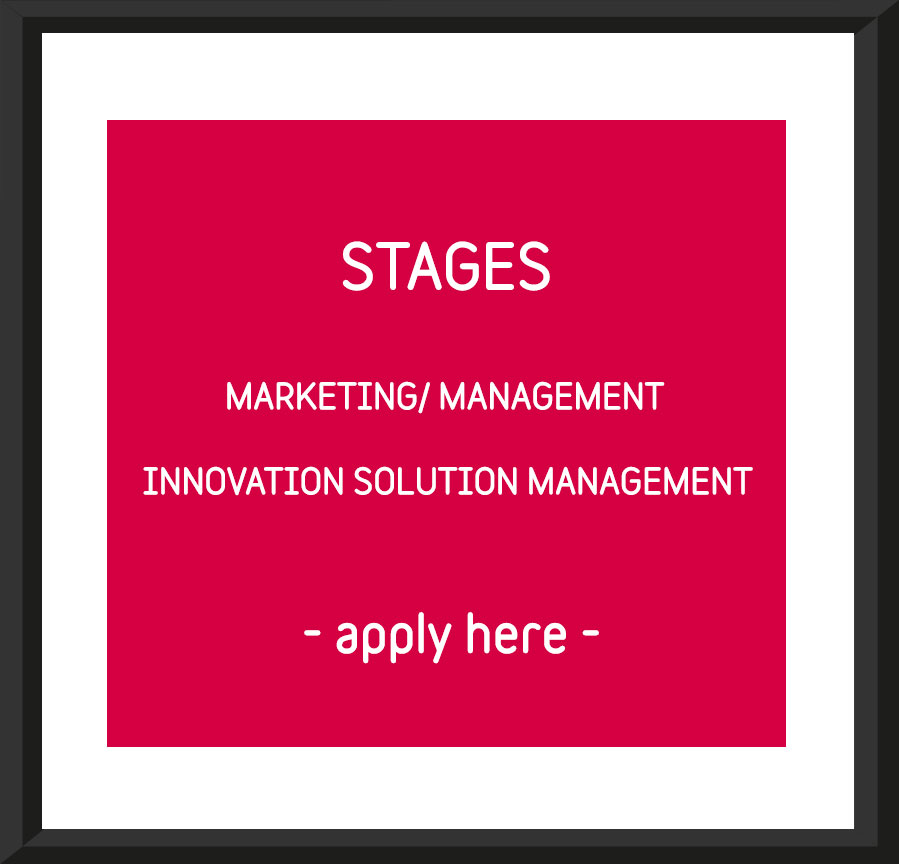
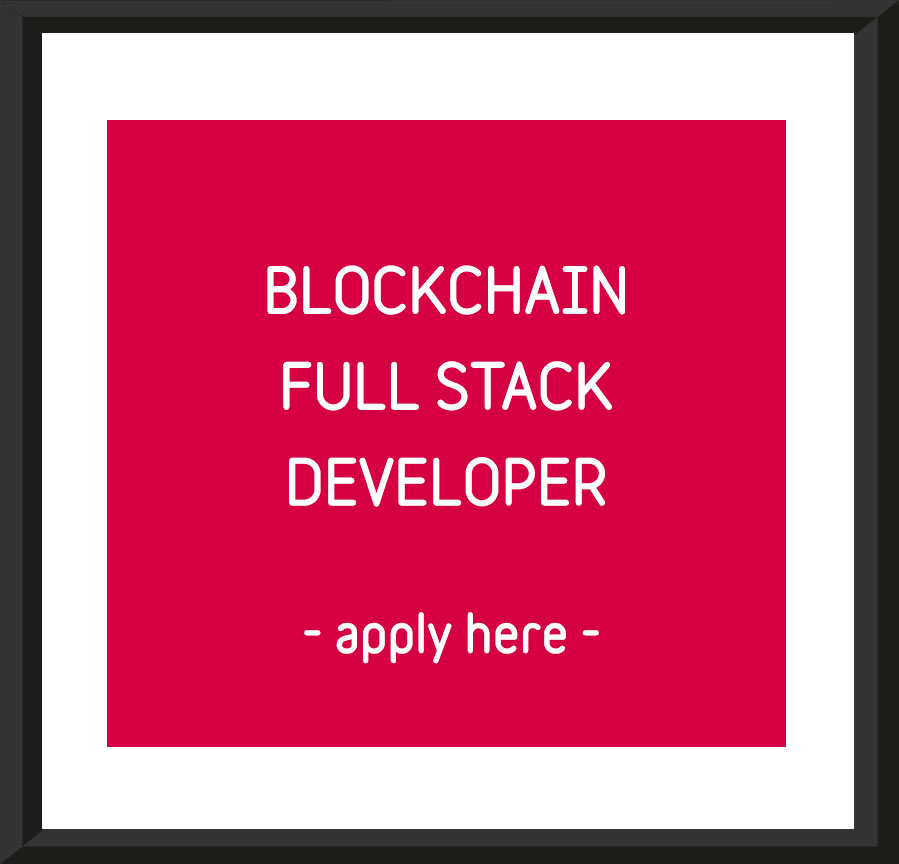
Update new positions in career page - new img and new code

Changed region(s): [[0.1557, 0.5312, 0.8409, 0.5938], [0.2803, 0.2812, 0.7164, 0.375], [0.2492, 0.4062, 0.7475, 0.5]]

diff --git a/career.html b/career.html
@@ -149,7 +149,7 @@
  <p v-html="content.jobs.job2.apply_text[language]"></p>
 
 <div class="divider"></div>
-  <!-- JOB3 -->
+  <!-- JOB3 
 <h1>{{ content.jobs.job3.position[language] }}</h1>
  <h2>{{ content.jobs.job3.description_title[language] }}</h2>
  <p>{{ content.jobs.job3.description_text[language] }}</p>
@@ -173,7 +173,7 @@
  </ul>
  <h2>{{ content.jobs.job3.apply_title[language] }}</h2>
  <p v-html="content.jobs.job3.apply_text[language]"></p>
-
+-->
  </div>
  </div>
 
@@ -472,69 +472,61 @@
  },
  job2: {
  position: {
- en: 'Internship',
-  fr: 'Stages',
-   nl: 'Stage'
+ en: 'BLOCKCHAIN FULL STACK DEVELOPER',
+  fr: 'BLOCKCHAIN FULL STACK DEVELOPER',
+   nl: 'BLOCKCHAIN FULL STACK DEVELOPER'
  },
   description_title: {
- en: 'INNOVATION SOLUTIONS MANAGEMENT',
- fr: 'INNOVATION SOLUTIONS MANAGEMENT',
- nl: 'INNOVATION SOLUTIONS MANAGEMENT'
+ en: '',
+ fr: '',
+ nl: ''
  },
  description_text: {
- en: 'Since November 2016, Belfius has established "The Studio", with the main aim to diversify the bank s income by developing solutions based on new technologies and bringing them to market as quickly as possible. These solutions can come from innovative ideas developped  in the Studio or from existing assets within Belfius. The Innovation Lab is an entity of "The Studio" and its main aim is to stimulate and facilitate innovation by structuring ideas through an Innovation Funnel. It has been set up to select and challenge new ideas and new technologies to determine which ones need to be developed first. To achieve this, methods such as design thinking and fast prototyping are used. Finally, the Innovation Lab also likes to conduct experiments, conduct research, analyzes the market and meets many players in the sector of new technologies. The Studio and the Innovation Lab focus on different domains and technologies such as Internet of Things, mobile, cognitive learning, big data and blockchain.',
- fr: 'Depuis novembre 2016 Belfius a créé « The Studio » dont l’ objectif principal est de diversifier les revenus de la banque en développant des solutions basées sur les nouvelles technologies et en les commercialisant au plus vite. Ces solutions peuvent venir d’idées innovantes développées au sein du Studio ou encore d’assets existants au sein de Belfius. L’Innovation Lab est une entité du Studio qui a comme objectif principal de stimuler et faciliter l’innovation en structurant les idées via un Innovation Funnel.  Celui-ci est mis en place afin de sélectionner et challenger les nouvelles idées et les nouvelles technologies afin de déterminer lesquelles doivent être développées en priorité. Pour réaliser cela, des méthodes de design thinking et fast prototyping sont utilisées. Enfin, l’Innovation Lab aime aussi mener des expériences, faire des recherches, analyser le marché et rencontrer de nombreux acteurs du secteur des nouvelles technologies. Le Studio et l’Innovation Lab se focalisent sur les différents domaines et technologies comme Internet of Things, mobile, cognitive learning, big data et blockchain.',
- nl: 'Sinds november 2016 heeft Belfius "The Studio" opgericht, met als hoofddoel de inkomsten van de bank te diversifiëren door op basis van nieuwe technologieën oplossingen te ontwikkelen en deze zo snel mogelijk op de markt te brengen. Deze oplossingen kunnen komen van innovatieve ideeën die in de Studio zijn ontwikkeld of van bestaande activa binnen Belfius. Het Innovation Lab is een entiteit van “The Studio” en heeft als hoofddoel innovatie te stimuleren en te faciliteren door ideeën te structureren via een Innovation Funnel. Het is opgezet om nieuwe ideeën en nieuwe technologieën te selecteren en uit te dagen om vervolgens te bepalen welke eerst moeten worden ontwikkeld. Om dit te bereiken, worden methodes als design thinking en fast prototyping gebruikt. Ten slotte voert het Innovation Lab ook graag experimenten, doet onderzoek, analyseert de markt en ontmoet veel spelers in de sector van nieuwe technologieën. The Studio en het Innovation Lab richten zich op verschillende domeinen en technologieën zoals Internet of Things, mobiel, cognitief leren, big data en blockchain.'
+ en: 'Our blockchain competence center within The Studio, develops the solutions of tomorrow offered by  this new, highly promising technology. The role of the Studio with regards to blockchain is twofold: firstly, we support and develop blockchain used-cases together with Belfius bank. Secondly, we propose our blockchain assets to other companies as well as public institutions.At The Studio, we believe in recruiting IT profiles with a strong sense of  business acumen. We are currently looking for a Blockchain full stack developer to join our team! The successful candidate will be involved from the start of the project (business analysis, design thinking workshop, etc.) until the real development and implementation phase.',
+ fr: 'Notre centre de compétences blockchain au sein du Studio, développe les solutions de demain offertes par cette nouvelle technologie très prometteuse. Le rôle du Studio en matière de blockchain est double: d une part, nous soutenons et développons des cas d utilisation de blockchain avec Belfius bank. Deuxièmement, nous proposons nos actifs de blockchain à d autres entreprises ainsi qu à des institutions publiques.Chez The Studio, nous croyons au recrutement de profils informatiques avec un sens aigu des affaires. Nous sommes actuellement à la recherche d un développeur Blockchain full stack pour rejoindre notre équipe! Le candidat retenu sera impliqué dès le début du projet (analyse d affaires, atelier de réflexion sur la conception, etc.) jusqu à la phase réelle de développement et de mise en œuvre.',
+ nl: 'Ons blockchain-competentiecentrum in The Studio ontwikkelt de oplossingen van morgen die worden aangeboden door deze nieuwe, veelbelovende technologie. De rol van de Studio met betrekking tot blockchain is tweevoudig: In de eerste plaats ondersteunen en ontwikkelen we blockchain used-cases samen met Belfius bank. In de twee plaats,  stellen we onze blockchainactiva voor aan andere bedrijven en ook aan openbare instellingen.Bij The Studio geloven we in het aanwerven van IT-profielen met een sterke affiniteit voor business. We zijn momenteel op zoek naar een Blockchain full stack developer  om ons team te versterken! De succesvolle kandidaat zal vanaf het begin van het project (bedrijfsanalyse, ontwerp denkworkshop, enz.) betrokken zijn tot de echte ontwikkelings- en implementatiefase.'
  },
  responsibilities_title: {
- en: 'Tâches et responsabilités',
+ en: 'Tasks and responsibilities',
   fr: 'Tâches et responsabilités',
    nl: 'Taken en verantwoordelijkheden'
 
  },
  responsibilities_intro: {
- en: 'The Innovation Lab is a multidisciplinary team in which each member of the team contributes his specific skills, but at the same time the team is committed to ensuring multidisciplinarity. The Trainee Innovation Solutions Management will concentrate on the following tasks:',
- fr: 'L’Innovation Lab est une équipe multidisciplinaire dans laquelle chaque membre de l’équipe apporte ses skills spécifiques mais ou, en même temps, l’équipe est au centre des préoccupations et fait en sorte que la multidisciplinarité est assurée. Le/la stagiaire Innovation Solutions Management se focalisera sur les tâches suivantes:',
- nl: 'Het Innovation Lab is een multidisciplinair team waarin elk lid van het team zijn specifieke vaardigheden inbrengt, maar tegelijkertijd staat het team in om de multidisciplinariteit te waarborgen. De stagiair(e) Innovation Solutions Management zal zich concentreren op de volgende taken:'
+ en: '',
+ fr: '',
+ nl: ''
  },
  responsibilities_list: {
  en: [
-'Develop and implement the innovation funnel.',
-'Detect new opportunities for the company.',
-'Conducting experiments and testing ideas individually or in teams',
-'Maintenance and construction of external and internal contacts (Beflius, other startups, possible partners, etc.).',
-'Building prototypes in collaboration with the developer (s).',
-'Organizing and facilitating brainstorming sessions, workshops and design thinking sessions to grow and develop new ideas.',
-'Making presentations and explaining new technologies.',
-'Use your personal network and knowledge to connect ideas and people.',
-'Identifying and stimulating unusual ideas that may have a significant impact.',
-'Follow-up of the ideas, products (pengo), companies (BrightKnight) that have already been commercialized by The Studio.'
+'Develop blockchain software in an agile way of working: PoC – Prototype – Production.',
+'Work closely together with developers of our partner, a worldwide leading blockchain firm.',
+'Work with different technologies (mainly Hyperledger, Corda, Ethereum and Digital Asset holding.)',
+'Brainstorm about new use-cases',
+'Explore technological challenges',
+'Think together with our blockchain architect about safe and sustainable solutions.',
+'Test your code. Push it to production. Enjoy.'
+
  ],
   fr: [
-' Mettre en place et développer l’innovation funnel. ',
-'Organiser, prioriser et définir les solutions à développer.',
-'Créer de nouvelles opportunités pour l’entreprise .',
-'Mener des expériences et tester des idées de façon individuelle ou en équipe. ',
-'Maintenir et  développer des contacts externes et internes (Beflius, autres startups, partenaires possibles,….). ',
-'Bâtir des prototypes en coopération avec le(s) développeur(s).',
-'Organiser et faciliter des brainstormings, des workshops et des sessions design thinking pour faire murir et développer des nouvelles idées.',
-'Réaliser des présentations et explications sur les nouvelles technologies. ',
-'Utiliser son réseau personnel et ses connaissances pour lier des idées et des personnes d’horizon différents.',
-'Identifier et stimuler des idées inhabituelles qui ont potentiellement un impact important.',
-'Continuer à suivre les idées, produits (pengo), sociétés (BrightKnight)  déjà commercilalisé par The Studio afin de soutenir la commercialisation. '
+'Développer un logiciel blockchain de manière agile: PoC Prototype Production.',
+'Travailler en étroite collaboration avec les développeurs de notre partenaire, une société mondiale de blockchain.',
+'Travailler avec différentes technologies (principalement Hyperledger, Corda, Ethereum et Digital Asset Holding.)',
+'Faites un remue-méninges sur les nouveaux cas d utilisation',
+'Explorer les défis technologiques',
+'Réfléchissez ensemble avec notre architecte de blockchain sur des solutions sûres et durables.',
+'Testez votre code. Poussez le à la production. Prendre plaisir.'
+
  ],
   nl: [
-'Ontwikkelen en implementeren van de innovation funnel.',
-'Aanbrengen en definiëren van oplossingen.',
-'Nieuwe opportuniteiten detecteren voor het bedrijf.',
-'Voeren van experimenten en uittesten van ideeën individueel of in team',
-'Onderhouden en uibouwen van externe en interne contacten (Beflius, andere startups, mogelijke partners, etc.).',
-'Bouwen van prototypes in samenwerking met de ontwikkelaar (s).',
-'Organiseren en faciliteren van brainstorming sessies, workshops en ontwerp-denksessies om te groeien en nieuwe ideeën te ontwikkelen.',
-'Maken van presentaties en uitleg geven over nieuwe technologieën.',
-'Gebruik maken van uw persoonlijke netwerk en kennis om ideeën en mensen te verbinden.',
-'Identificeren en stimuleren van ongewone ideeën die mogelijk een significante impact hebben.',
-'Verder opvolgen van de ideeën, producten (pengo), bedrijven (BrightKnight) die al door The Studio zijn gecommercialiseerd.'
+'Ontwikkellen van blockchain software in een agile manier van werken: PoC  Prototype  Productie.',
+'Nauw samenwerken met de developers van onze partner, een wereldwijd toonaangevend blockchain-bedrijf.',
+'Werken met verschillende technologieen (voornamelijk Hyperledger, Corda, Ethereum en Digital Asset Holding.)',
+'Brainstormen over nieuwe use cases',
+'Technologische uitdagingen anticiperen',
+'Samen met onze blockchain architect denken aan veilige en duurzame oplossingen.',
+'Test uw code. Duw het naar productie. Geniet.'
+
  ]
  },
  skills_title: {
@@ -566,38 +558,36 @@
  profile_list: {
  en: [
 
-'Your internship takes place within the framework of your Masters degree in Business Administration, Commercial Sciences, etc.',
-'You are motivated and proactive.',
-'You dare to think Out-of-the-box - and are willing to go outside your comfort zone.',
-'You feel comfortable in an environment of change.',
-'Interest in new technologies and affinity with IT is a plus.',
-'Curiosity to explore interesting topics without getting lost in unimportant elements.',
-'You have good communication skills and are able to confidently and convincingly interact with the different hierarchical levels, internal and external partners, etc.',
-'You are a team player and have the ability to win and / or lose as a team',
-'Language proficiency: ENG + NL / FR'
+'Good knowledge of Java and Node.js',
+'Network configuration',
+'Experience with docker and cloud computing, especially AWS, is a plus.',
+'Eager to learn',
+'Take ownership',
+'Want to invest in yourself by working with the technology of tomorrow',
+'Good knowledge of english',
+'IT profile, but business oriented.'
+
  ],
  fr: [
 
-'Votre stage se déroule dans le cadre de votre Master en Science de Gestion ou Ingénierie.',
-'Motivation et proactivité.',
-'Out of the box-thinking et être préparé à se placer en dehors de sa zone de confort.',
-'Se sentir confortable dans un environnement de changement.',
-'Intéressé par  les nouvelles technologies et une affinité avec l’IT est un plus. ',
-'Curiosité pour explorer des sujets intéressants sans pour autant se perdre dans des éléments sans importance.',
-'Bonnes compétences de communication vers les différents niveaux hiérarchiques et vers des parties internes et externes.',
-'Teamplayer exemplaire et capacité à gagner et/ou perdre en équipe.',
-'Maîtrise de langues: ANG + NL/FR'
+'Bonne connaissance de Java et Node.js',
+'Configuration du réseau',
+'L expérience du docker et du cloud computing, en particulier AWS, est un plus.',
+'Envie d apprendre',
+'Prendre possession',
+'Vous voulez investir en vous-même en travaillant avec la technologie de demain',
+'Bonne connaissance de l anglais',
+'Profil informatique, mais orienté métier.'
+
  ],
  nl: [
- ' Je stage vindt plaats in het kader van je Master TEW, Handelswetenschappen, etc.',
-'Je bent gemotiveerd en proactief.',
-'Je durft Out-of-the-box - denken en bent bereid om buiten je comfortzone te gaan.',
-'Je voelt je comfortabel in een omgeving van verandering.',
-'Interesse in nieuwe technologieën en affiniteit met IT is een pluspunt.',
-'Nieuwsgierigheid om interessante onderwerpen te verkennen zonder te verdwalen in onbelangrijke elementen.',
-'Je beschikt over goede communicatieve vaardigheden en bent in staat om zelfzeker en overtuigend te interageren met de verschillende hiërarchische niveaus, interne en externe partners, etc.',
-'Je bent een teamplayer en hebt het vermogen om te winnen en / of te verliezen als een team',
-'Taalvaardigheid: ENG + NL / FR'
+'Goede kennis van Java en Node.js',
+'Netwerk configuratie',
+'Ervaring met docker en cloud computing, met name AWS, is een pluspunt.',
+'Leergierig en veranderingsgericht',
+'Goede kennis van het Engels',
+'IT expert met een zakelijke kijk'
+
  ]
  },
  offer_title: {
@@ -607,12 +597,35 @@
  },
  offer_list: {
  en: [
+
+'Working in a startup environment with the support of Belfius ',
+'Competitive salary package',
+'Extra legal advantages',
+'Possibility to work from home once a week',
+'Start up atmosphere: Great accomodations, daily breakfasts and drinksspeed, freedom and independence'
+
  
  ],
   fr: [
+'Travailler dans un environnement de création avec le soutien de Belfius',
+'Paquet salarial compétitif',
+'Avantages juridiques supplémentaires',
+'Possibilité de travailler à la maison une fois par semaine',
+'Atmosphère de start-up',
+'Chouette cadre de travail, petits déjeuners quotidiens et boissons',
+'Rapidité, liberté et indépendance'
+
  
  ],
   nl: [
+'Werken in een startup-omgeving met de steun van Belfius',
+'Competitief salarispakket',
+'Extra legale voordelen',
+'Mogelijkheid om eenmaal per week thuis te werken',
+'Startup sfeer:',
+'Leuke werkomgeving, dagelijks ontbijt en drankjes',
+'snelheid, vrijheid en onafhankelijkheid'
+
  
  ]
  },
@@ -622,11 +635,12 @@
  nl: 'Hoe solliciteren'
  },
  apply_text: {
- en: 'The internship takes place between September and August with a minimum internship duration of 10 weeks.Interested? Send your resume to <a href="mailto:careers@thestudio.digital">careers@thestudio.digital</a> ',
- fr: 'Le stage se déroulera entre septembre et aout avec une durée minimum de 10 semaines. Intéressé ? Envoyer votre CV à l’adresse <a href="mailto:careers@thestudio.digital">careers@thestudio.digital</a> ',
- nl: 'De stage heeft plaats tussen september en augustus met een minimum stage duur van 10 weken. Interesse? Stuur jouw CV naar het volgende e-mailadres <a href="mailto:careers@thestudio.digital">careers@thestudio.digital</a>'
+ en: 'To apply, please send your resume to  the following email address <a href="mailto:careers@thestudio.digital">careers@thestudio.digital</a> with the communication « Block Chain Fullstack developer Firstname Lastname ». Feel free to add all relevant information to show off your skills',
+ fr: 'Pour postuler, veuillez envoyer votre CV à l adresse email suivante <a href="mailto:careers@thestudio.digital">careers@thestudio.digital</a> avec la communication «Block Chain Fullstack developer  Prénom Nom». N hésitez pas à ajouter toutes les informations pertinentes pour montrer vos compétences',
+ nl: 'Interesse? Stuur  je CV naar het volgende e-mailadres <a href="mailto:careers@thestudio.digital">careers@thestudio.digital</a> met de mededeling «Block Chain Fullstack developer Voornaam Achternaam». Voeg gerust alle relevante informatie toe om je vaardigheden te illustreren.'
  }
  },
+
  job3: {
  position: {
  en: '',
@@ -634,9 +648,9 @@
    nl: ''
  },
   description_title: {
- en: 'COMMUNICATION & MARKETING',
- fr: 'COMMUNICATION & MARKETING',
- nl: 'COMMUNICATION & MARKETING'
+ en: '',
+ fr: '',
+ nl: ''
  },
  description_text: {
  en: '',
@@ -644,9 +658,9 @@
  nl: ''
  },
  responsibilities_title: {
- en: 'Tâches et responsabilités',
-  fr: 'Tâches et responsabilités',
-   nl: 'Taken en verantwoordelijkheden'
+ en: '',
+  fr: '',
+   nl: ''
 
  },
  responsibilities_intro: {
@@ -656,28 +670,13 @@
  },
  responsibilities_list: {
  en: [
-'You play a crucial role in the coordination of our branding & communication activities.',
-'You invent creative marketing campaigns and also implement them.',
-'You provide content for our social media channels within a certain strategy.',
-'You analyze our existing channels and look for optimisations and innovations.',
-'You are responsible for the layout and design of flyers, folders, posters, etc.',
-'You are responsible for the organization of various events: venue, catering, invitations, etc. and contacts suppliers.'
+
  ],
   fr: [
-'Vous jouez un rôle crucial dans la coordination de nos activités de branding et de communication.',
-'Vous inventez des campagnes marketing créatives et vous les mettez également en œuvre.',
-'Vous fournissez du contenu pour nos canaux de médias sociaux dans le cadre d une certaine stratégie.',
-'Vous analysez nos canaux existants et recherchez des optimisations et des innovations.',
-'Vous êtes responsable de la disposition et de la conception de flyers, des dépliants, des affiches, etc.',
-'Vous êtes responsable de l organisation de différents événements: lieu, restauration, invitations, etc. et prenez contact avec les fournisseurs.'
+
  ],
   nl: [
-'Je speelt een cruciale rol in de coördinatie van onze branding & communicatie activiteiten.',
-'Je bedenkt creatieve marketingcampagnes en voert ze ook uit.',
-'Je voorziet content voor onze sociale media kanalen binnen een bepaalde strategie.',
-'Je analyseert onze bestaande kanalen en zoekt naar optimalisaties en innovaties.',
-'Je staat in voor de opmaak en design van flyers, folders, affiches, etc.',
-'Je staat in voor de organisatie van verschillende evenementen: venue, catering, uitnodigingen,etc. en neemt contact op met leveranciers.'
+
  ]
  },
  skills_title: {
@@ -702,39 +701,20 @@
  ]
  },
  profile_title: {
- en: 'Profil',
- fr: 'Profil',
- nl: 'Profiel'
+ en: '',
+ fr: '',
+ nl: ''
  },
  profile_list: {
  en: [
-'Jouw stage vindt plaats in het kader van je bacheloropleiding marketing/communicatie.',
-'Je hebt een goede beheersing van ENG + NL/FR.',
-'Je hebt een passie voor startups en bent erg gemotiveerd.',
-'Je wil snel bijleren.',
-'Je communiceert assertief en doeltreffend.',
-'Je bent ondernemend en komt zelf met ideeën die je wil uitproberen.',
-'Je hebt idealiter kennis van Indesign, Photoshop en Illustrator.'
+
 
  ],
  fr: [
-'Votre stage se déroule dans le cadre de votre Bachelier en marketing / communication.',
-'Vous avez une passion pour les startups et êtes très motivé.',
-'Vous voulez apprendre rapidement.',
-'Vous communiquez avec assurance et efficacité.',
-'Vous êtes entrepreneur et proposez des idées que vous voulez essayer.',
-'Idéalement, vous avez des connaissances sur Indesign, Photoshop et Illustrator.'
+
  ],
  nl: [
- ' Je stage vindt plaats in het kader van je Master TEW, Handelswetenschappen, etc.',
-'Je bent gemotiveerd en proactief.',
-'Je durft Out-of-the-box - denken en bent bereid om buiten je comfortzone te gaan.',
-'Je voelt je comfortabel in een omgeving van verandering.',
-'Interesse in nieuwe technologieën en affiniteit met IT is een pluspunt.',
-'Nieuwsgierigheid om interessante onderwerpen te verkennen zonder te verdwalen in onbelangrijke elementen.',
-'Je beschikt over goede communicatieve vaardigheden en bent in staat om zelfzeker en overtuigend te interageren met de verschillende hiërarchische niveaus, interne en externe partners, etc.',
-'Je bent een teamplayer en hebt het vermogen om te winnen en / of te verliezen als een team',
-'Taalvaardigheid: ENG + NL / FR'
+
  ]
  },
  offer_title: {
@@ -754,16 +734,17 @@
  ]
  },
  apply_title: {
- en: 'Comment postuler',
- fr: 'Comment postuler',
- nl: 'Hoe solliciteren'
+ en: '',
+ fr: '',
+ nl: ''
  },
  apply_text: {
- en: 'The internship takes place between September and August with a minimum internship duration of 10 weeks.Interested? Send your resume to <a href="mailto:careers@thestudio.digital">careers@thestudio.digital</a>',
- fr: 'Le stage se déroulera entre septembre et aout avec une durée minimum de 10 semaines. Intéressé ? Envoyer votre CV à l’adresse <a href="mailto:careers@thestudio.digital">careers@thestudio.digital</a>',
- nl: 'De stage heeft plaats tussen september en augustus met een minimum stage duur van 10 weken. Interesse? Stuur jouw CV naar het volgende e-mailadres <a href="mailto:careers@thestudio.digital">careers@thestudio.digital</a>'
+ en: '',
+ fr: '',
+ nl: ''
  }
  }
+
  },
  recruiting: {
  work_with_us: {
